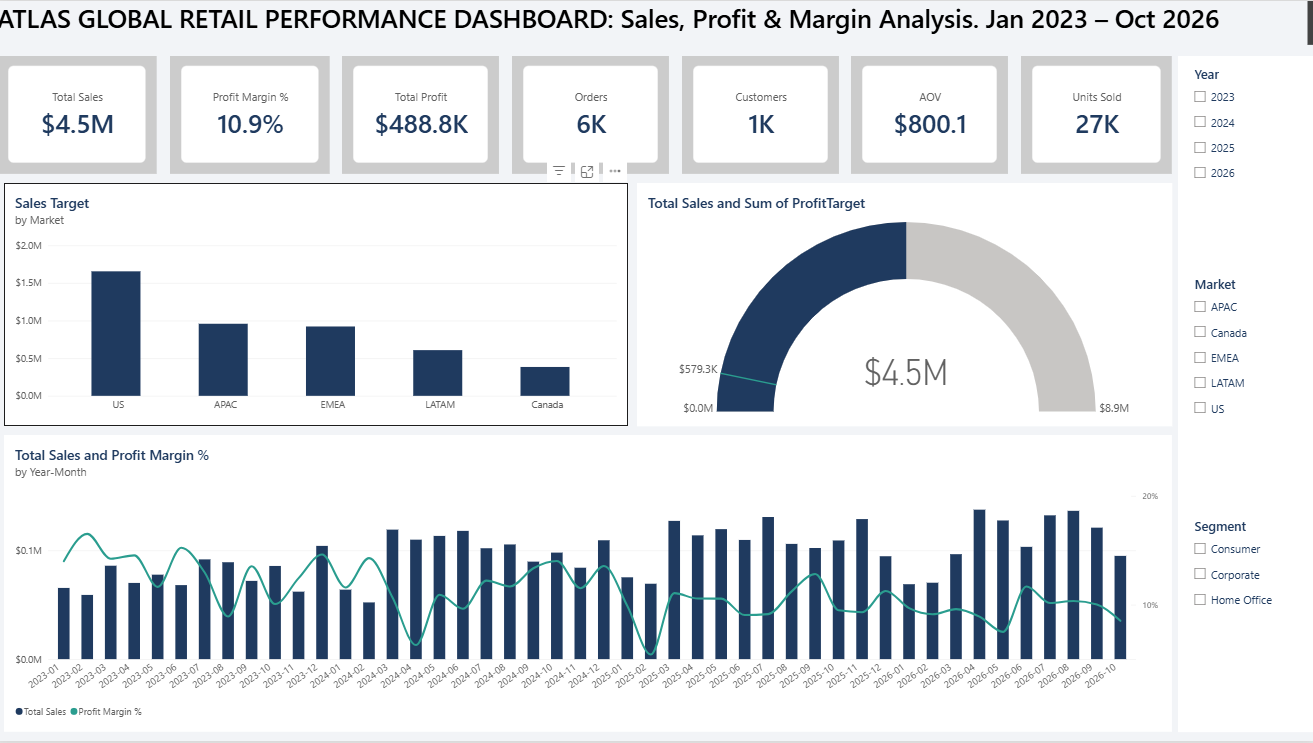
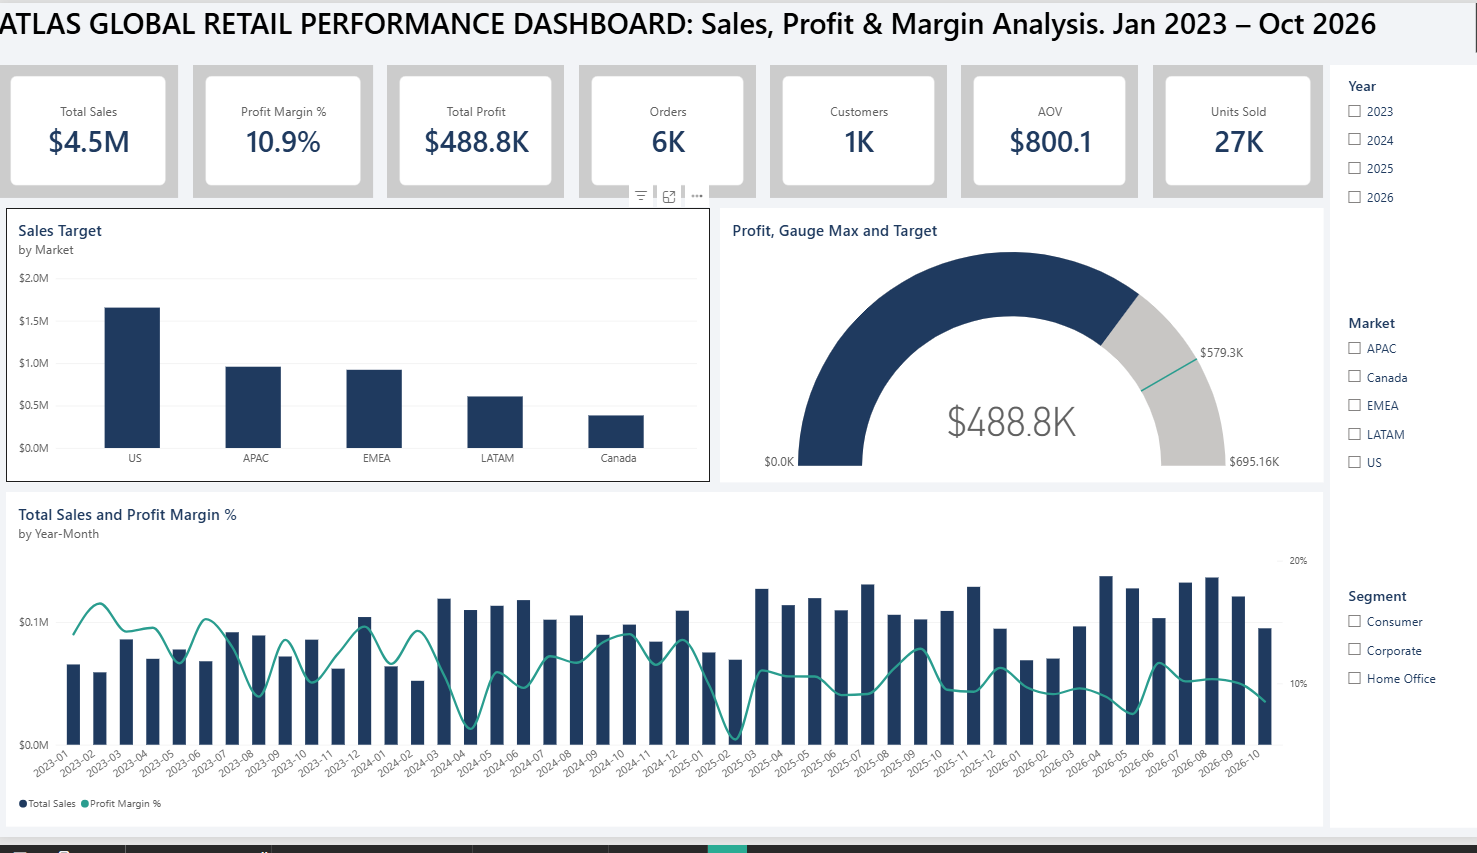
Update page 1 and 2 screenshots and README write-up

diff --git a/README.md b/README.md
@@ -19,12 +19,12 @@ A four-page report that moves from *how are we doing* to *where is the money lea
 ### Page 1: Executive Overview
 ![Executive Overview](images/page1-executive-overview.png)
 
-**$4.5M sales, $488.8K profit, 10.9% margin** across about 6K orders and 1K customers (Jan 2023 to Oct 2026), with Year, Market and Segment slicers. Monthly sales are plotted in date order against profit margin, which shows Q4 sales peaks and a margin that has drifted from the mid-teens in 2023 towards 10%. A target chart breaks the sales target down by market.
+**$4.5M sales, $488.8K profit, 10.9% margin** across about 6K orders and 1K customers (Jan 2023 to Oct 2026), with Year, Market and Segment slicers. Monthly sales are plotted in date order against profit margin, which shows Q4 sales peaks and a margin that has drifted from the mid-teens in 2023 towards 10%. A gauge shows **profit of $488.8K against a target of $579.3K, about 84% of target**, and a chart breaks the sales target down by market.
 
 ### Page 2: Where Profit Is Made and Lost
 ![Where Profit Is Made and Lost](images/page2-where-profit-is-made-and-lost.png)
 
-**Technology earns the most profit, led by Copiers, Phones and Computers. Office Supplies has the best margin (22.8%) and Furniture the worst (2.6%).** Bookcases are loss-making. A map shows margin by country, and a treemap shows how sales are split by category and sub-category.
+**Technology earns the most profit, led by Copiers, Phones and Computers. Office Supplies has the best margin (22.8%) and Furniture the worst (2.6%).** Bookcases are loss-making. A Market × Category matrix shows where margin is thinnest: **Furniture loses money in EMEA (-3.5%) and LATAM (-2.0%)**, while Canada is the strongest market in every category (17.8% overall, against 5.1% in EMEA and 6.0% in LATAM). A map shows margin by country, and a treemap shows how sales are split by category and sub-category.
 
 ### Page 3: Discount Damage
 ![Discount Damage](images/page3-discount-damage.png)
